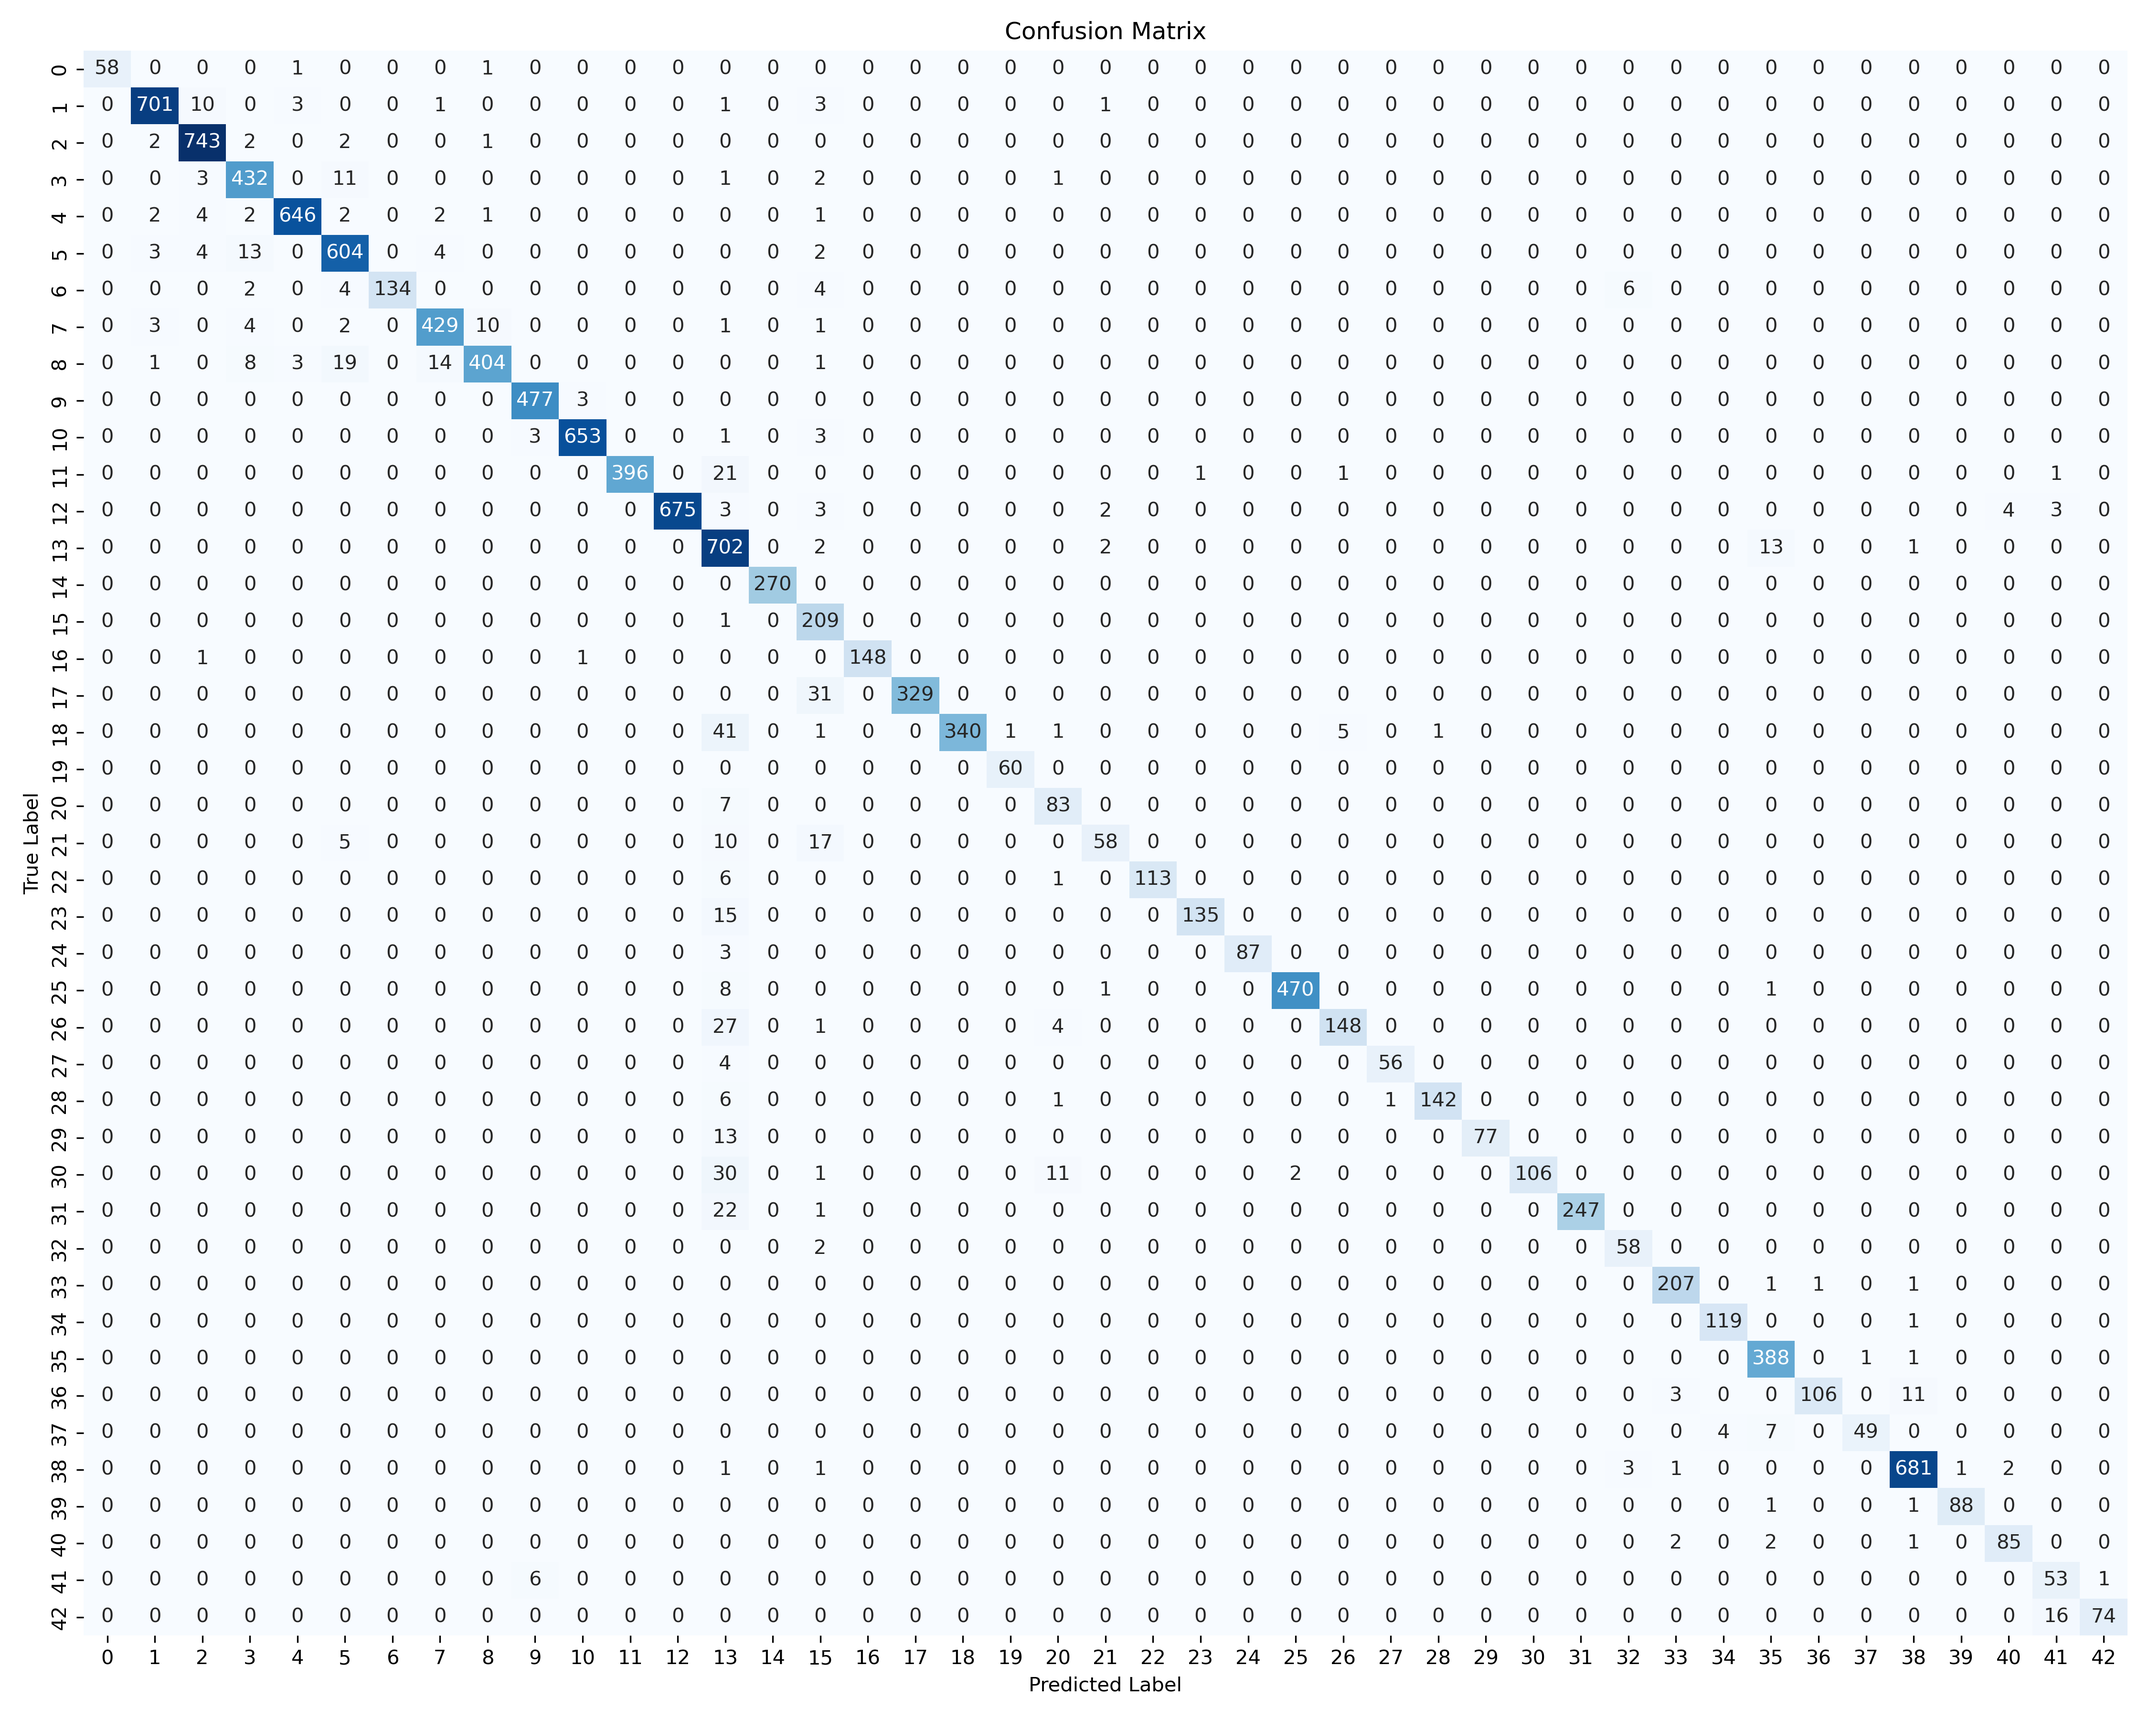
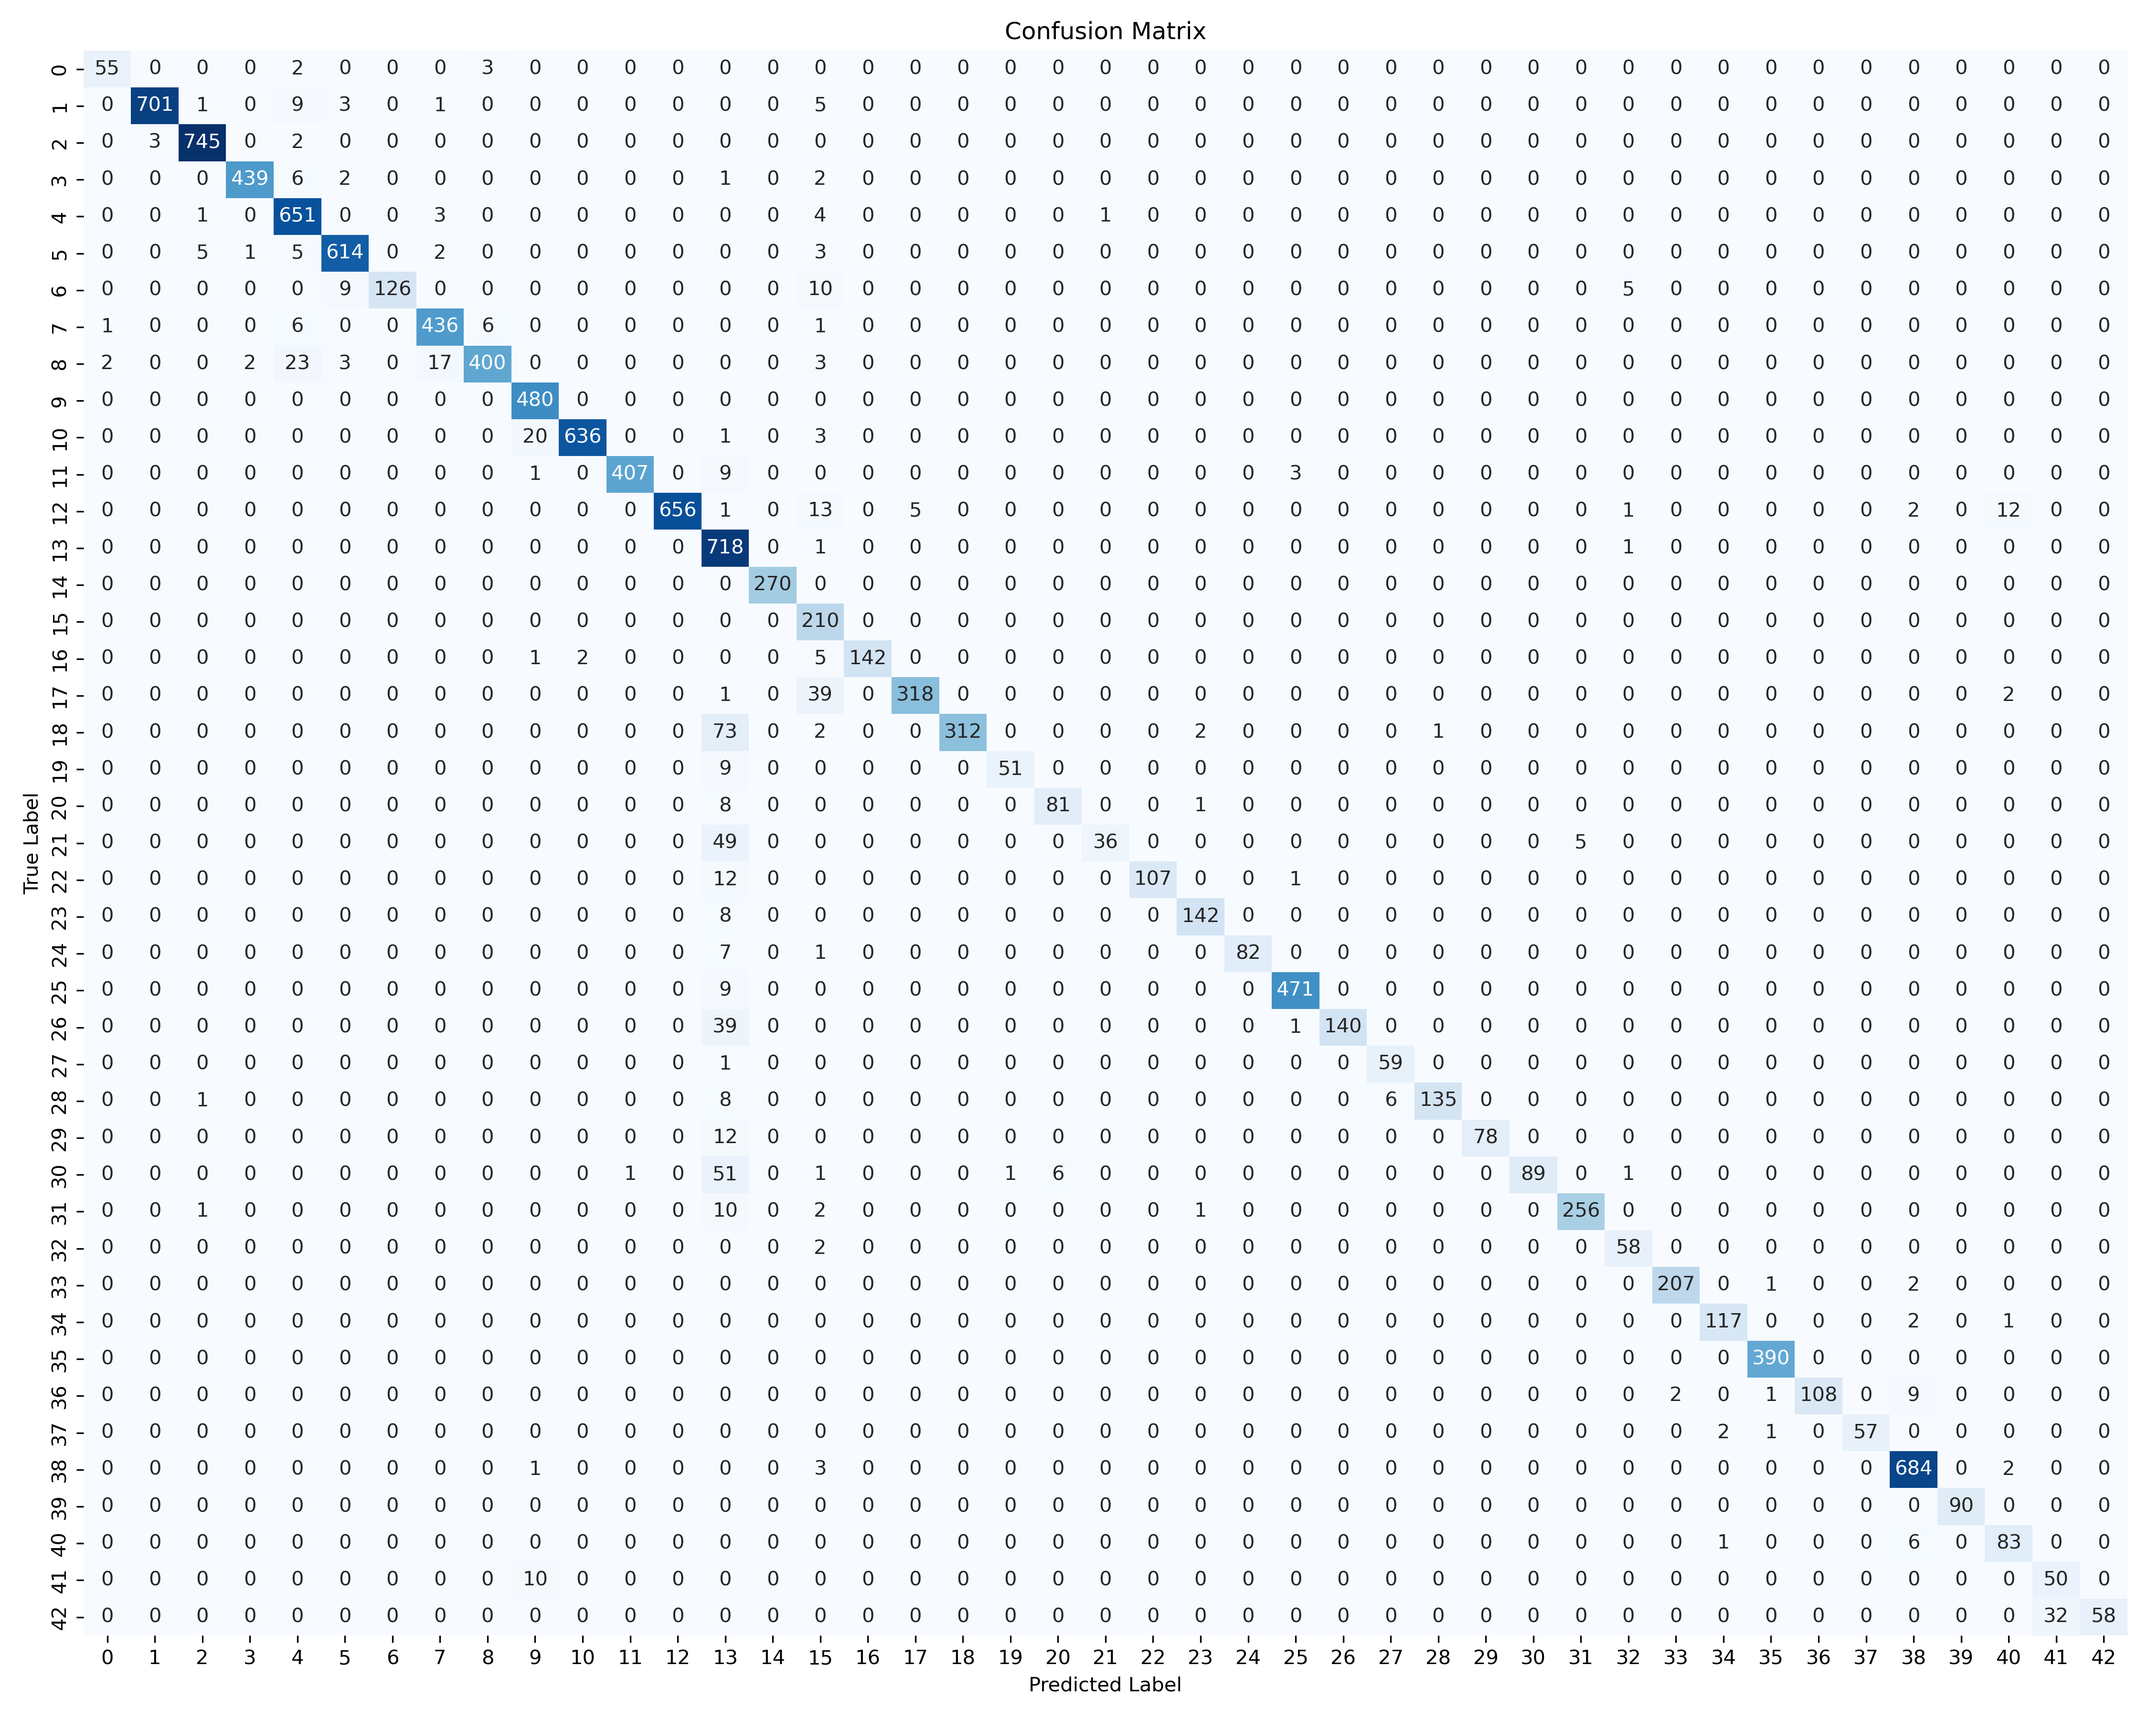
small changes to readme to include git clone, added the forgotten earlystopping to the 2nd model

diff --git a/src/Trainer/CBMTrainer.py b/src/Trainer/CBMTrainer.py
@@ -87,7 +87,9 @@ class CBMTrainer:
         end = time.time()
         total_time = end-start
         minutes, seconds = divmod(end - start, 60)
-        print(f"Training took {int(minutes)}m {seconds:.2f}s")
+        hours, minutes = divmod(minutes, 60)
+
+        print(f"Training took {int(minutes)}m {seconds:.2f}s") if hours < 1 else print(f"Training took {int(hours)}h {int(minutes)}m {seconds}s")
 
         return self.model
 
@@ -115,11 +117,11 @@ class CBMTrainer:
 
             if avg_val_loss < best_value_loss:
                 best_value_loss = avg_val_loss
-                epochs_no_improv = 0
-                torch.save(self.model.concept, BASE_DIR / "models" / "conceptmodel/model.pth")
+                epochs_no_improve = 0
+                torch.save(self.model.concept, BASE_DIR / "models" / "conceptmodel/concmodel.pth")
             else:
-                epochs_no_improv += 1
-            if epochs_no_improv >= self.patience:
+                epochs_no_improve += 1
+            if epochs_no_improve >= self.patience:
                 print(f"Early stopping at epoch: {epoch+1}")
                 break
 
@@ -137,14 +139,25 @@ class CBMTrainer:
     def label_training(self, num_epochs: int) -> None:
         # Freezes first model
         self.freeze(self.model.cnn)
+
+        best_value_loss = float('inf')
+        epochs_no_improv = 0
         
         for epoch in range(num_epochs):
             print(f"\n Epoch {epoch + 1}/{num_epochs}")
 
             self.training(1)
-            self.validation(1)
+            avg_val_loss = self.validation(1)
 
-            # Calculate epoch statistics TODO
+            if avg_val_loss < best_value_loss:
+                best_value_loss = avg_val_loss
+                epochs_no_improve = 0
+                torch.save(self.model.concept, BASE_DIR / "models" / "cnnmodel/cnnmodel.pth")
+            else:
+                epochs_no_improve += 1
+            if epochs_no_improve >= self.patience:
+                print(f"Early stopping at epoch: {epoch+1}")
+                break
 
         # Freezes second model
         self.unfreeze(self.model.cnn)

diff --git a/src/main.py b/src/main.py
@@ -150,17 +150,17 @@ if __name__ == "__main__":
                     print("Training is set without the EfficientNetV2 backbone")
                     own_model = True
 
-            starter = Main(device = "cuda:1", 
+            starter = Main(device = "cuda:0", 
                         is_own_model = own_model, 
                         batch_size = 32, 
-                        learning_rate = 0.003, 
+                        learning_rate = 0.002, 
                         train_portion = 0.8, 
                         c_epochs = 40 if own_model else 20,
                         l_epochs = 20, 
-                        patience = 5 if own_model else 3
+                        patience = 6 if own_model else 4
                         )
             starter.main()
-            destination = MODEL_DIR / "cbmmodel/final_model" if own_model else "cbmmodel/final_model_ef"
+            destination = MODEL_DIR / "cbmmodel/final_model" if own_model else MODEL_DIR / "cbmmodel/final_model_ef"
             starter.save_model(destination.with_suffix(".pth"))
             starter.save_meta_data(destination.with_suffix(".md"))
 

diff --git a/src/Models/Model.py b/src/Models/Model.py
@@ -10,7 +10,6 @@ class Model_CNN(torch.nn.Module):
         # pretrained network
         self.backbone = efficientnet_v2_s(weights=EfficientNet_V2_S_Weights.IMAGENET1K_V1)
 
-        
         # output of the last layer
         in_features = self.backbone.classifier[1].in_features
         self.backbone.classifier = torch.nn.Identity()

diff --git a/src/Models/SimpleModel1.py b/src/Models/SimpleModel1.py
@@ -8,8 +8,6 @@ Model that takes concept vectors as input and gives back a label.
 class SimpleModel1(torch.nn.Module):
     """
     Initiates an instance of the model.
-
-
     @param num_concepts: takes length of concept vector
     @param num_labels: takes length of the output
     """

diff --git a/README.md b/README.md
@@ -5,14 +5,22 @@ Created for our semester project at the Humboldt University Berlin.
 
 ---
 
-## 1. Install Conda
+## 1. Clone the Repo
+
+```
+git clone https://github.com/brunikow/ML-Traffic-Sign-Recognition-7.git tsr-gr7
+```
+
+---
+
+## 2. Install Conda
 
 Download and install **Anaconda** or **Miniconda**:
 
 [https://www.anaconda.com/download](https://www.anaconda.com/download)
 ---
 
-## 2. Set up project environment
+## 3. Set up project environment
 
 From the project root:
 
@@ -26,7 +34,7 @@ conda activate gr7-ml
 
 ---
 
-## 3. Initialize
+## 4. Initialize
 
 The project uses the **GTSRB dataset**. To properly train our Models we need to download the dataset:
 ```
@@ -41,7 +49,7 @@ After running this command following folders will appear in your file structure:
 
 --- 
 
-## 4. Train the model
+## 5. Train the model
 ```
 python src/main.py run
 ```
@@ -59,7 +67,7 @@ This will:
 
 ---
 
-## 5. Evaluate the model
+## 6. Evaluate the model
 ```
 python src/main.py eval
 ```
